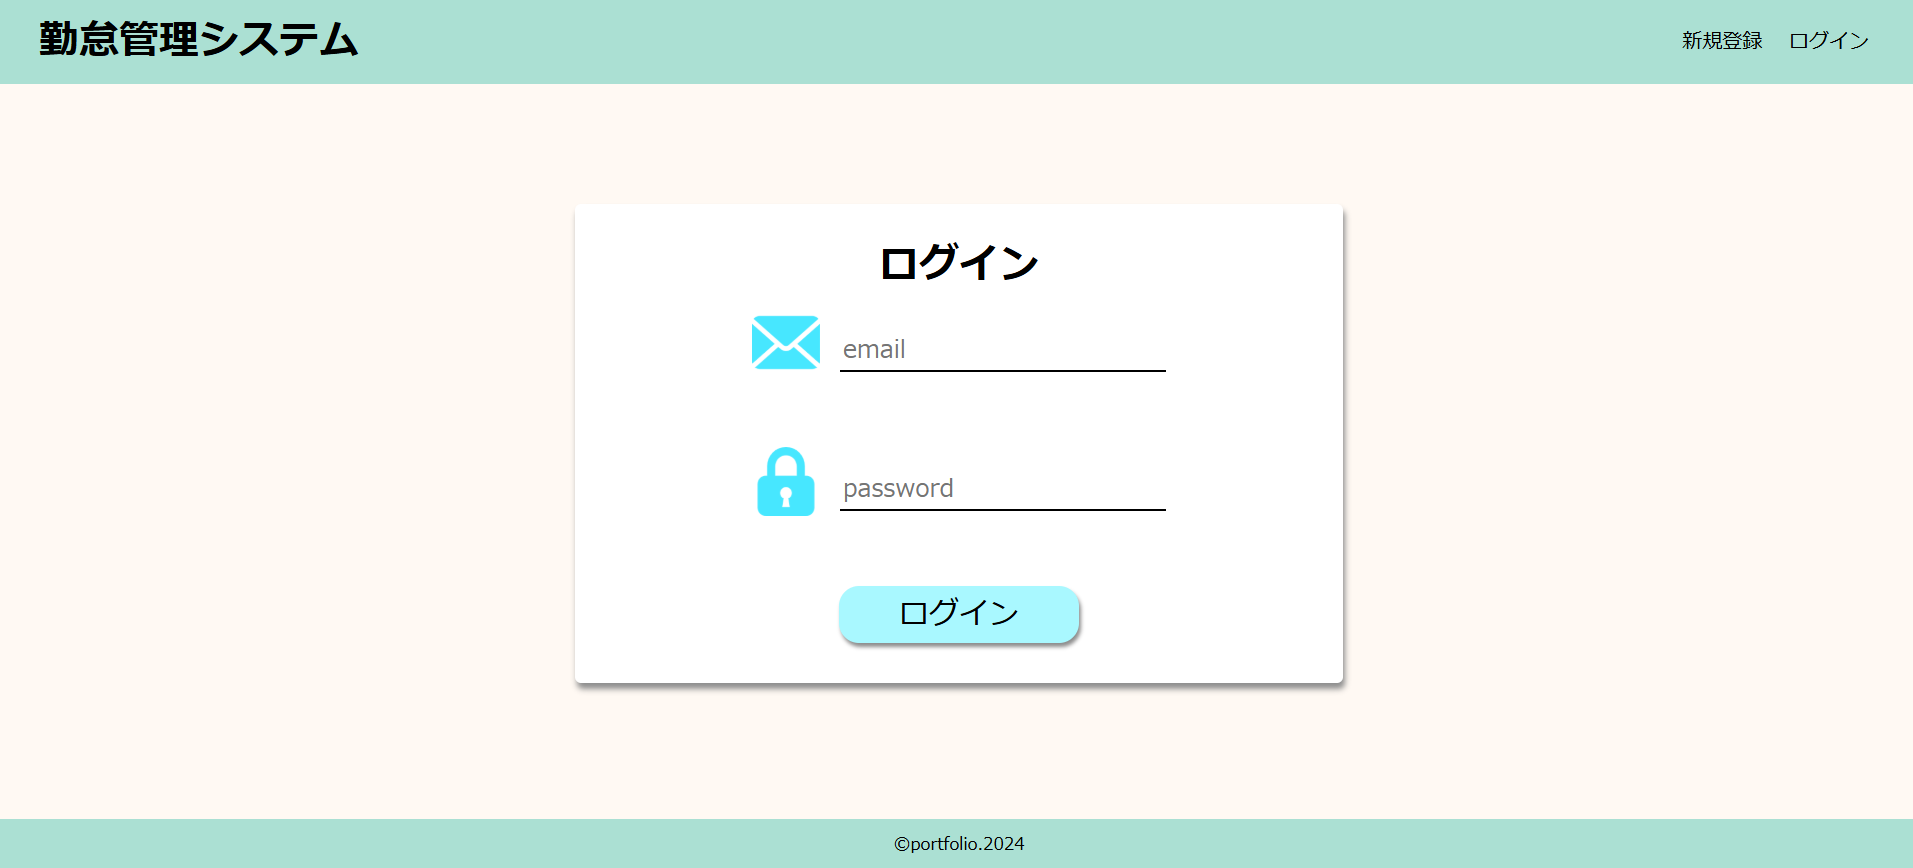
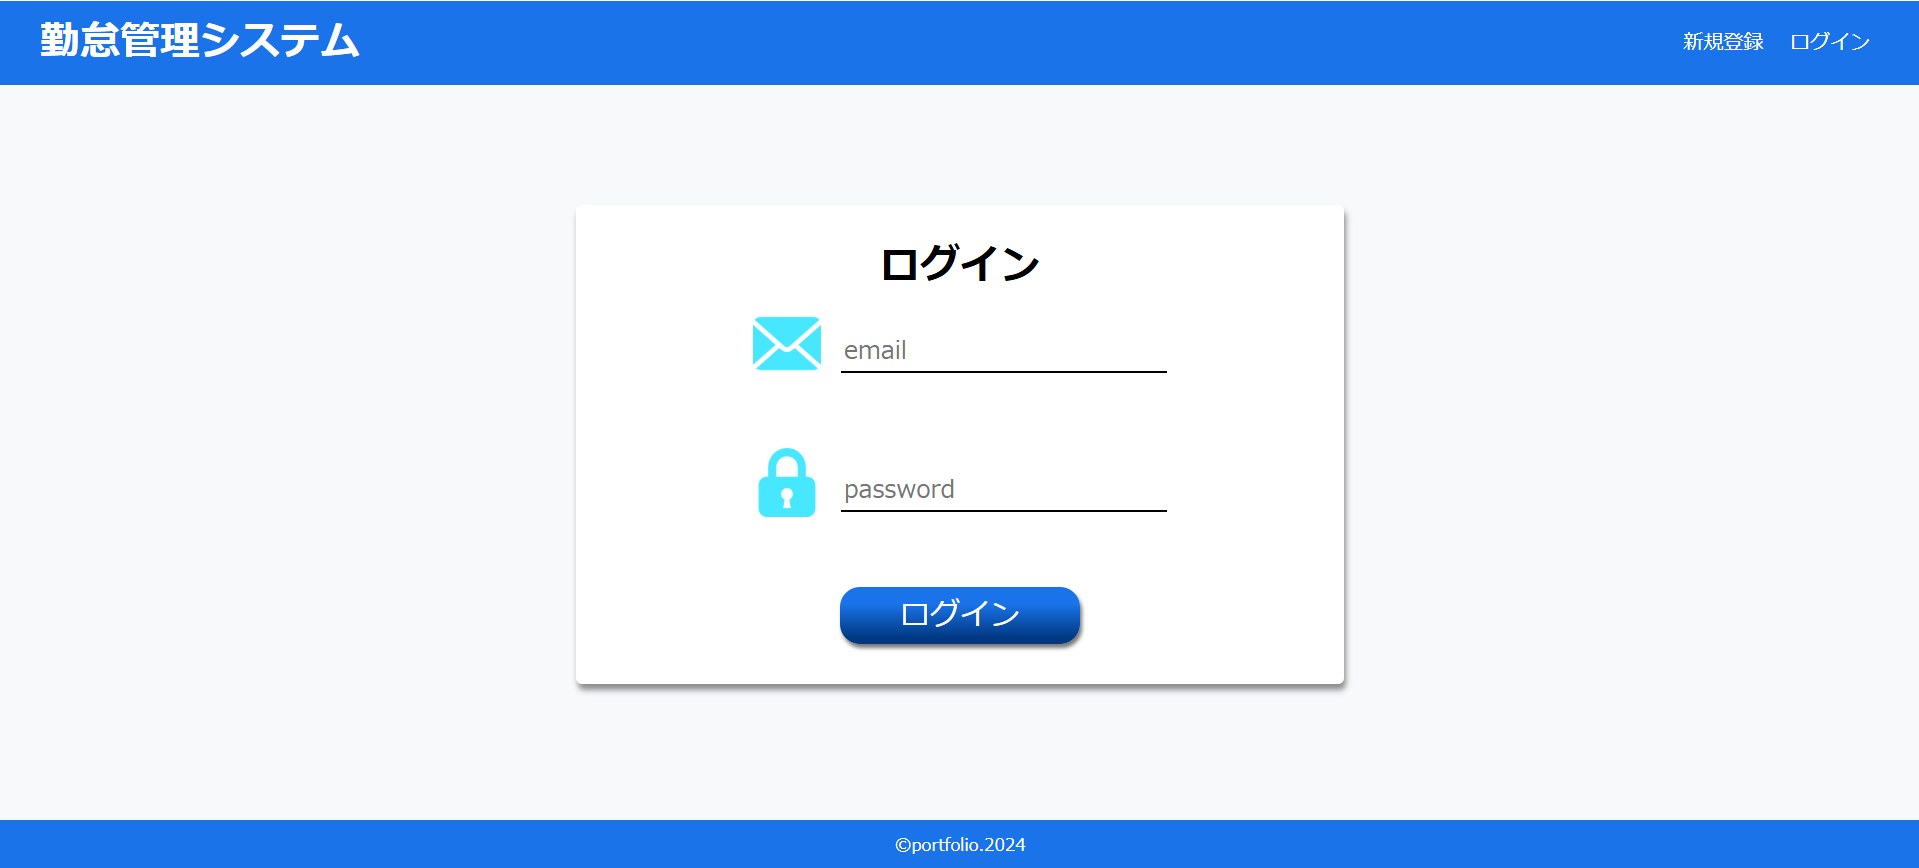
新規作成、ログイン、トップページの配色変更と微調整。

diff --git a/pages/fixes/_id.vue b/pages/fixes/_id.vue
@@ -61,34 +61,36 @@
                         <div class="rest-data__title-name">休憩時間</div>
                         <div class="rest-data__title-name">&emsp;</div>
                     </div>
-                    <validation-observer ref="obs" v-slot="ObserverProps">
-                        <form class="rest-data__item-form"
-                            @submit.prevent="ObserverProps.handleSubmit(() => restFixes(rest))">
-                            <div class="rest-data__item" v-for="rest in work.rests" :key="rest.id">
-                                <div class="rest-data__item-detail">
-                                    <validation-provider v-slot="{ errors }" rules="required|time_format">
-                                        <input class="rest-data__item-input" type="text" v-model="rest.break_start"
-                                            name="休憩開始時間">
-                                        <div class="error">&emsp;{{ errors[0] }}</div>
-                                    </validation-provider>
+                    <div class="rest-container" v-for="rest in work.rests" :key="rest.id">
+                        <validation-observer ref="obs" v-slot="ObserverProps">
+                            <form class="rest-data__item-form"
+                                @submit.prevent="ObserverProps.handleSubmit(() => restFixes(rest))">
+                                <div class="rest-data__item">
+                                    <div class="rest-data__item-detail">
+                                        <validation-provider v-slot="{ errors }" rules="required|time_format">
+                                            <input class="rest-data__item-input" type="text" v-model="rest.break_start"
+                                                name="休憩開始時間">
+                                            <div class="error">&emsp;{{ errors[0] }}</div>
+                                        </validation-provider>
+                                    </div>
+                                    <div class="rest-data__item-detail">
+                                        <validation-provider v-slot="{ errors }" rules="required|time_format">
+                                            <input class="rest-data__item-input" type="text" v-model="rest.break_end"
+                                                name="休憩終了時間">
+                                            <div class="error">&emsp;{{ errors[0] }}</div>
+                                        </validation-provider>
+                                    </div>
+                                    <div class="rest-data__item-detail">
+                                        {{ rest.break_time }}
+                                    </div>
+                                    <div class="rest-data__item-detail">
+                                        <input type="hidden" v-model="rest.id" name="restId">
+                                        <button class="fixes-button" type="submit">修正</button>
+                                    </div>
                                 </div>
-                                <div class="rest-data__item-detail">
-                                    <validation-provider v-slot="{ errors }" rules="required|time_format">
-                                        <input class="rest-data__item-input" type="text" v-model="rest.break_end"
-                                            name="休憩終了時間">
-                                        <div class="error">&emsp;{{ errors[0] }}</div>
-                                    </validation-provider>
-                                </div>
-                                <div class="rest-data__item-detail">
-                                    {{ rest.break_time }}
-                                </div>
-                                <div class="rest-data__item-detail">
-                                    <input type="hidden" v-model="rest.id" name="restId">
-                                    <button class="fixes-button" type="submit">修正</button>
-                                </div>
-                            </div>
-                        </form>
-                    </validation-observer>
+                            </form>
+                        </validation-observer>
+                    </div>
                 </div>
             </div>
         </div>
@@ -102,7 +104,7 @@ export default {
         return {
             searchDate: '',
             userData: [],
-            searchWorkData: []
+            searchWorkData: [],
         };
     },
     methods: {
@@ -126,6 +128,7 @@ export default {
                     user_id: this.userData.id,
                     search_date: this.searchDate
                 });
+                console.log(data.search_work_data);
                 this.searchWorkData = data.search_work_data.map(work => ({
                     ...work,
                     break_total: work.break_total ?? '00:00:00'

diff --git a/components/Button.vue b/components/Button.vue
@@ -99,6 +99,7 @@ export default {
 
 <style scoped>
 .content-message {
+    color: #555;
     font-size: x-large;
 }
 
@@ -110,51 +111,54 @@ export default {
 
 .work-start {
     width: 30%;
-    background-color: #A2CEFA;
+    color: #fff;
+    background: linear-gradient(to bottom, #1A73E8 30%, #00377F 90%);
     border: none;
-    border-radius: 0.5rem;
-    box-shadow: 0.1rem 0.2rem 0.2rem #8d8d8d;
+    border-radius: 2rem;
+    box-shadow: 0.1rem 0.2rem 0.2rem #797979;
     font-size: 3rem;
     padding: 2rem 0;
     cursor: pointer;
 }
 
 .work-start:hover {
-    background-color: #60afff;
+    background: linear-gradient(to bottom, #4285f4 30%, #2d60b1 90%);
 }
 
 .break-start,
 .break-end {
     display: block;
     width: 30%;
-    background-color: #DBF1CE;
+    color: #fff;
+    background: linear-gradient(to bottom, #FFBA5E 35%, #FB8C00 90%);
     border: none;
-    border-radius: 0.5rem;
-    box-shadow: 0.1rem 0.2rem 0.2rem #8d8d8d;
+    border-radius: 2rem;
+    box-shadow: 0.1rem 0.2rem 0.2rem #797979;
     font-size: 3rem;
     padding: 1rem;
-    margin: 0 auto 2rem;
+    margin: 0 auto 2.5rem;
     cursor: pointer;
 }
 
 .break-start:hover,
 .break-end:hover {
-    background-color: #9ad478;
+    background: linear-gradient(to bottom, #ffc876 35%, #ff9f2a 90%);
 }
 
 .work-end {
     width: 30%;
-    background-color: #A2CEFA;
+    color: #fff;
+    background: linear-gradient(to bottom, #1A73E8 30%, #00377F 90%);
     border: none;
-    border-radius: 0.5rem;
-    box-shadow: 0.1rem 0.2rem 0.2rem #8d8d8d;
+    border-radius: 2rem;
+    box-shadow: 0.1rem 0.2rem 0.2rem #797979;
     font-size: 3rem;
     padding: 1rem 0;
     cursor: pointer;
 }
 
 .work-end:hover {
-    background-color: #60afff;
+    background: linear-gradient(to bottom, #4285f4 30%, #2d60b1 90%);
 }
 
 @media screen and (max-width: 1024px) {

diff --git a/pages/register.vue b/pages/register.vue
@@ -106,10 +106,11 @@ export default {
 }
 
 .register-button {
-    background-color: #A9F8FF;
+    color: #fff;
+    background: linear-gradient(to bottom, #1A73E8 30%, #00377F 90%);
     border: none;
     border-radius: 1rem;
-    box-shadow: 0.1rem 0.2rem 0.2rem #8d8d8d;
+    box-shadow: 0.1rem 0.2rem 0.2rem #797979;
     font-size: x-large;
     padding: 0.3rem 5rem;
     margin-top: 1rem;
@@ -117,7 +118,7 @@ export default {
 }
 
 .register-button:hover {
-    background-color: #00eaff;
+    background: linear-gradient(to bottom, #4285f4 30%, #2d60b1 90%);
 }
 
 .error {

diff --git a/pages/login.vue b/pages/login.vue
@@ -97,10 +97,11 @@ export default {
 }
 
 .login-button {
-    background-color: #A9F8FF;
+    color: #fff;
+    background: linear-gradient(to bottom, #1A73E8 30%, #00377F 90%);
     border: none;
     border-radius: 1rem;
-    box-shadow: 0.1rem 0.2rem 0.2rem #8d8d8d;
+    box-shadow: 0.1rem 0.2rem 0.2rem #797979;
     font-size: x-large;
     padding: 0.3rem 3rem;
     margin-top: 1rem;
@@ -108,7 +109,7 @@ export default {
 }
 
 .login-button:hover {
-    background-color: #00eaff;
+    background: linear-gradient(to bottom, #4285f4 30%, #2d60b1 90%);
 }
 
 .error {

diff --git a/components/MainHeader.vue b/components/MainHeader.vue
@@ -33,23 +33,28 @@ export default {
 
 <style scoped>
 .header {
-    background-color: #ABE0D3;
+    background-color: #1A73E8;
     display: flex;
     justify-content: space-between;
     align-items: center;
     padding: 1rem 2rem;
 }
 
+.title-logo {
+    color: #fff;
+}
+
 .link-register,
 .link-login {
     text-decoration: none;
-    color: #000;
+    color: #fff;
     margin: 0 0.5rem;
 }
 
 .logout {
     border: none;
-    background-color: #ABE0D3;
+    background-color: #1A73E8;
+    color: #fff;
     cursor: pointer;
 }
 

diff --git a/components/Time.vue b/components/Time.vue
@@ -28,11 +28,12 @@ export default {
 
 <style scoped>
 .time {
-    color: #4F546C;
+    color: #202124;
     font-size: 8rem;
+    letter-spacing: -0.2rem;
 }
 
-@media screen and (max-width: 820px) {
+@media screen and (max-width: 1024px) {
     .time {
         font-size: 6rem;
     }

diff --git a/components/MainFooter.vue b/components/MainFooter.vue
@@ -7,10 +7,14 @@
 <style scoped>
 .footer {
     width: 100%;
-    background-color: #ABE0D3;
+    background-color: #1A73E8;
     text-align: center;
     padding: 0.5rem;
     position: absolute;
     bottom: 0;
+}
+
+.footer-logo {
+    color: #fff;
 }
 </style>

diff --git a/pages/index.vue b/pages/index.vue
@@ -74,6 +74,7 @@ export default {
 }
 
 .user-message {
+	color: #555;
 	font-size: xx-large;
 	margin-bottom: 0.5rem;
 }

diff --git a/layouts/default.vue b/layouts/default.vue
@@ -8,6 +8,6 @@
 
 <style>
 body {
-    background-color: #FFF9F3;
+    background-color: #F8F9FA;
 }
 </style>

diff --git a/README.md b/README.md
@@ -119,6 +119,8 @@ http://localhost:3000
 
 ![トップページ](readme_image/AmsTopPage.png)
 
+![トップページ2](readme_image/AmsTopPage2.png)
+
 #### 打刻機能
 
 - 勤務開始ボタンをクリックすると休憩開始ボタンと勤務終了ボタンが表示されます。休憩開始ボタンをクリックすると休憩終了ボタンが表示されます。
